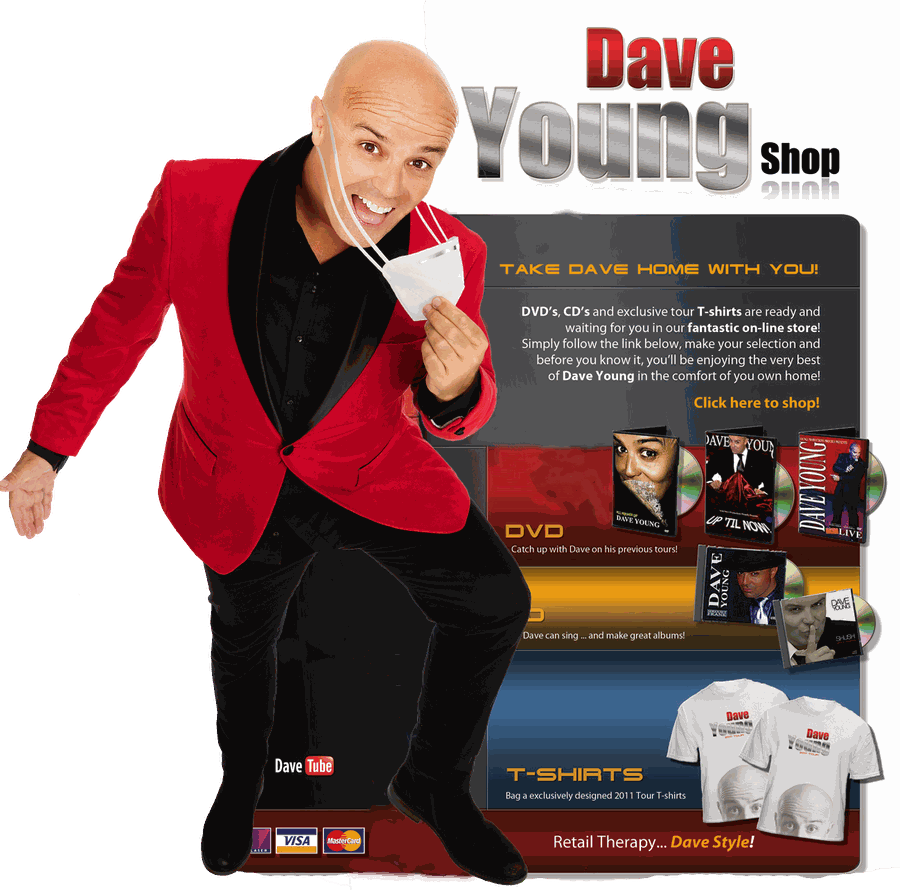
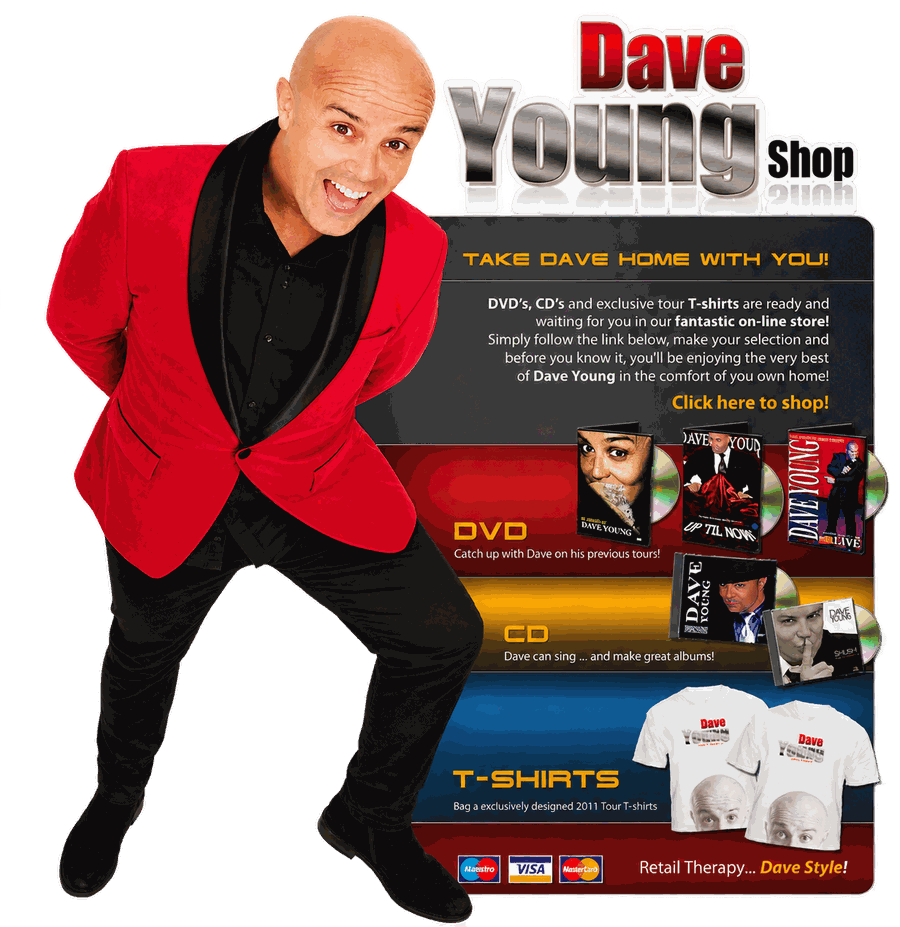
Sync with daveyounglive.com (14 Oct 2026): Unwrapped Christmas copy, new bio and booking text on home, Lucan 3 Dec confirmed, new shop promo graphic

diff --git a/index.html b/index.html
@@ -5,8 +5,8 @@
 </div><nav data-dy="e22" class="mnav" id="mnav" onclick="if(event.target.tagName=='A')this.classList.remove('open')"><a data-dy="e23 a11 t13" href="index.html">Home</a><a data-dy="e24 a12 t14" href="live.html">Live</a><a data-dy="e25 a13 t15" href="book.html">Book Dave</a><a data-dy="e26 a14 t16" href="corporate.html">Corporate</a><a data-dy="e27 a15 t17" href="clips.html">Clips</a><a data-dy="e28 a16 t18" href="about.html">About</a><a data-dy="e29 a17 t19" href="shop.html">Shop</a><a data-dy="e30 a18 t20" href="https://theweddingcomedian.ie" target="_blank" rel="noopener">Weddings</a><a data-dy="e31 a19 t21" href="contact.html">Contact</a></nav></header>
 <div data-dy="s0 e0" class="hero" id="top"><img data-dy="e1 i0" src="assets/banner_hero.jpg" alt="Dave Young Unwrapped Christmas Show poster"></div>
 <div data-dy="s1 e2" class="ctabar"><div data-dy="e3" class="wrap"><p data-dy="e4 t0">Six Unwrapped Christmas shows this December</p><div data-dy="e5" class="acts"><a data-dy="e6 a0 t1" class="btn gold" href="live.html">See dates &amp; buy tickets</a><a data-dy="e7 a1 t2" class="btn ghost" href="book.html">Book Dave for your party</a><a data-dy="e8 a2 t3" class="btn call" href="tel:+353872616317">Call 087 261 6317</a></div></div></div>
-<section data-dy="s2 e9" id="live"><div data-dy="e10" class="wrap"><h2 data-dy="e11 t4" class="sec">Unwrapped <span data-dy="e12" class="g">Christmas</span> Shows</h2><p data-dy="e13 t5" class="lead">Comedy, Christmas craic and dancing till late, as described on the ticket listings.</p><div data-dy="e14" class="shows" data-cms="shows"><div class="show"><div class="date"><span class="dow">Thu</span><div class="dm"><span class="dd">3</span><span class="mm">Dec</span></div></div>
-<div class="venue"><b>Courtney's of Lucan <span class="tag">DATE TBC</span></b><span>Lucan, Co. Dublin · 8pm</span></div>
+<section data-dy="s2 e9" id="live"><div data-dy="e10" class="wrap"><h2 data-dy="e11 t4" class="sec">Unwrapped <span data-dy="e12" class="g">Christmas</span> Shows</h2><p data-dy="e13 t5" class="lead">Laugh till your sides hurt and dance till the DJ stops! It&#8217;s outrageous, it&#8217;s festive&#8230; it&#8217;s Dave Young!</p><p data-dy="e14 t6" class="lead">Get ready for a night of outrageous comedy, big laughs and dancing till late with Dave Young! He&#8217;s naughty, he&#8217;s nice&#8230; and he&#8217;s definitely unmissable! Expect plenty of Christmas craic, hilarious stories and a few surprises along the way.</p><p data-dy="e15 t7" class="lead">🍽 Food available on request · 💃 Dancing till late · 😂 Laughs guaranteed</p><p data-dy="e16 t8" class="lead">Round up your friends, workmates or family and make it the best night out of Christmas! Because let&#8217;s face it&#8230; it&#8217;s not Christmas without Dave Young!</p><div data-dy="e17" class="shows" data-cms="shows"><div class="show"><div class="date"><span class="dow">Thu</span><div class="dm"><span class="dd">3</span><span class="mm">Dec</span></div></div>
+<div class="venue"><b>Courtney's of Lucan</b><span>Lucan, Co. Dublin · 8pm</span></div>
 <div class="act"><a class="btn red" href="https://www.universe.com/events/dave-young-live-in-lucan-dec-3-tickets-VRLH0F" target="_blank" rel="noopener">Buy tickets</a><span class="via">Universe</span></div></div><div class="show"><div class="date"><span class="dow">Thu</span><div class="dm"><span class="dd">10</span><span class="mm">Dec</span></div></div>
 <div class="venue"><b>The Ball Alley</b><span>Kildare Town · time TBC</span></div>
 <div class="act"><a class="btn gold" href="tel:045531012">Call 045 531 012</a><span class="via">Phone booking</span></div></div><div class="show"><div class="date"><span class="dow">Sat</span><div class="dm"><span class="dd">12</span><span class="mm">Dec</span></div></div>
@@ -18,30 +18,30 @@
 <div class="act"><a class="btn red" href="https://www.eventbrite.ie/e/dave-young-unwrapped-christmas-show-tickets-2001060687383" target="_blank" rel="noopener">Buy tickets</a><span class="via">Eventbrite</span></div></div><div class="show"><div class="date"><span class="dow">Sun</span><div class="dm"><span class="dd">27</span><span class="mm">Dec</span></div></div>
 <div class="venue"><b>Broadway</b><span>Clondalkin, Dublin 22 · 8pm</span></div>
 <div class="act"><a class="btn red" href="https://www.universe.com/events/dave-young-clondalkin-dec-27-tickets-FP3ZVX" target="_blank" rel="noopener">Buy tickets</a><span class="via">Universe</span></div></div></div></div></section>
-<section data-dy="s3 e15" class="party" id="book"><div data-dy="e16" class="wrap"><img data-dy="e17 i1" src="assets/christmas25.jpg" alt="The Xmas Party Comedian">
-<div data-dy="e18"><span data-dy="e19 t6" class="now">Now booking Christmas 2026 parties</span>
-<h2 data-dy="e20 t7" class="sec">Dave Young at your <span data-dy="e21" class="r">Christmas party</span></h2>
-<p data-dy="e22 t8" class="big">A show built around your team. Dave personalises it with the funny stuff about your guests, so the room is left wondering how he knew.</p>
-<ul data-dy="e23 L0" class="ticks"><li data-dy="e24 t9">Tailored to your company and your guests</li><li data-dy="e25 t10">His own sound and lighting crew <span data-dy="e26" class="tag">TBC</span></li><li data-dy="e27 t11">Covers Ireland, the UK and Spain</li><li data-dy="e28 t12">Also books corporate nights and weddings</li></ul>
-<div data-dy="e29" class="btnrow"><a data-dy="e30 a3 t13" class="btn red" href="book.html">Book Dave for your party</a><a data-dy="e31 a4 t14" class="btn call" href="tel:+353872616317">Call 087 261 6317</a></div></div></div></section>
-<div data-dy="s4 e32" class="credits"><div data-dy="e33" class="wrap">
-<div data-dy="e34 t15" class="big30">30 years<small data-dy="e35">of comedy</small></div>
-<div data-dy="e36"><h4 data-dy="e37 t16">On TV</h4><ul data-dy="e38 L1"><li data-dy="e39 t17">The Late Late Show</li><li data-dy="e40 t18">The Saturday Night Show</li><li data-dy="e41 t19">The Miriam Show</li></ul></div>
-<div data-dy="e42"><h4 data-dy="e43 t20">In the films</h4><ul data-dy="e44 L2"><li data-dy="e45 t21">The Commitments</li><li data-dy="e46 t22">The Snapper</li><li data-dy="e47 t23">Braveheart</li></ul></div>
-</div><div data-dy="e48" class="wrap q"><p data-dy="e49 t24" class="quote"><b data-dy="e50" style="font-style:normal;color:var(--gold);letter-spacing:.06em">AMAZING!</b><br data-dy="e51">&#8220;The funniest comedian I have ever seen, Dave had us laughing all night, he made our show.&#8221;<cite data-dy="e52">Miriam O&#8217;Callaghan</cite></p>
-<div data-dy="e53 L3" class="sq"><div data-dy="e54"><p data-dy="e55 t25">&#8220;He&#8217;s Hilarious&#8221;</p><cite data-dy="e56 t26">Westlife</cite></div><div data-dy="e57"><p data-dy="e58 t27">&#8220;Laugh out loud funny&#8221;</p><cite data-dy="e59 t28">Evening Herald</cite></div><div data-dy="e60"><p data-dy="e61 t29">&#8220;Never saw him&#8221;</p><cite data-dy="e62 t30">Stevie Wonder</cite></div></div></div></div>
-<section data-dy="s5 e63" class="aboutt"><div data-dy="e64 L4" class="wrap aboutg">
-<div data-dy="e65"><h2 data-dy="e66 t31" class="sec">About <span data-dy="e67" class="r">Dave</span></h2>
-<p data-dy="e68 t32" class="big">Dave Young is an Irish comedian. He gained notoriety for having one of the craziest comedy shows in the country and has been honoured with numerous industry accolades, including the Performing Arts Award for Outstanding Contribution to Comedy.</p>
-<p data-dy="e69 t33">His first big break came at Dublin&#8217;s Olympia Theatre, where he was selected from hundreds of audition hopefuls, the start of many stage and TV appearances throughout Europe.</p>
-<div data-dy="e70" class="btnrow" style="margin-top:20px"><a data-dy="e71 a5 t34" class="btn ghost" href="about.html">Read more about Dave</a></div></div>
-<div data-dy="e72"><video data-dy="e73" class="vid" controls playsinline preload="none" poster="assets/dave_intro_poster.jpg"><source data-dy="e74" src="assets/dave_intro.mp4" type="video/mp4"></video></div>
+<section data-dy="s3 e18" class="party" id="book"><div data-dy="e19" class="wrap"><img data-dy="e20 i1" src="assets/christmas25.jpg" alt="The Xmas Party Comedian">
+<div data-dy="e21"><span data-dy="e22 t9" class="now">Now booking Christmas 2026 parties</span>
+<h2 data-dy="e23 t10" class="sec">Dave Young at your <span data-dy="e24" class="r">Christmas party</span></h2>
+<p data-dy="e25 t11" class="big">Looking to make your next corporate event, awards night, gala dinner, staff party or company celebration truly memorable? Dave Young brings a refreshing mix of side-splitting comedy, great entertainment and hilarious audience participation that gets everyone laughing together.</p>
+<ul data-dy="e26 L0" class="ticks"><li data-dy="e27 t12">Tailored to your company and your guests</li><li data-dy="e28 t13">His own sound and lighting crew <span data-dy="e29" class="tag">TBC</span></li><li data-dy="e30 t14">Covers Ireland, the UK and Spain</li><li data-dy="e31 t15">Also books corporate nights and weddings</li></ul>
+<div data-dy="e32" class="btnrow"><a data-dy="e33 a3 t16" class="btn red" href="book.html">Book Dave for your party</a><a data-dy="e34 a4 t17" class="btn call" href="tel:+353872616317">Call 087 261 6317</a></div></div></div></section>
+<div data-dy="s4 e35" class="credits"><div data-dy="e36" class="wrap">
+<div data-dy="e37 t18" class="big30">30 years<small data-dy="e38">of comedy</small></div>
+<div data-dy="e39"><h4 data-dy="e40 t19">On TV</h4><ul data-dy="e41 L1"><li data-dy="e42 t20">The Late Late Show</li><li data-dy="e43 t21">The Saturday Night Show</li><li data-dy="e44 t22">The Miriam Show</li></ul></div>
+<div data-dy="e45"><h4 data-dy="e46 t23">In the films</h4><ul data-dy="e47 L2"><li data-dy="e48 t24">The Commitments</li><li data-dy="e49 t25">The Snapper</li><li data-dy="e50 t26">Braveheart</li></ul></div>
+</div><div data-dy="e51" class="wrap q"><p data-dy="e52 t27" class="quote"><b data-dy="e53" style="font-style:normal;color:var(--gold);letter-spacing:.06em">AMAZING!</b><br data-dy="e54">&#8220;The funniest comedian I have ever seen, Dave had us laughing all night, he made our show.&#8221;<cite data-dy="e55">Miriam O&#8217;Callaghan</cite></p>
+<div data-dy="e56 L3" class="sq"><div data-dy="e57"><p data-dy="e58 t28">&#8220;He&#8217;s Hilarious&#8221;</p><cite data-dy="e59 t29">Westlife</cite></div><div data-dy="e60"><p data-dy="e61 t30">&#8220;Laugh out loud funny&#8221;</p><cite data-dy="e62 t31">Evening Herald</cite></div><div data-dy="e63"><p data-dy="e64 t32">&#8220;Never saw him&#8221;</p><cite data-dy="e65 t33">Stevie Wonder</cite></div></div></div></div>
+<section data-dy="s5 e66" class="aboutt"><div data-dy="e67 L4" class="wrap aboutg">
+<div data-dy="e68"><h2 data-dy="e69 t34" class="sec">About <span data-dy="e70" class="r">Dave</span></h2>
+<p data-dy="e71 t35" class="big">Award-winning Irish comedian, singer, entertainer and all-round agent of chaos, Dave Young has built a reputation for delivering one of the wildest comedy shows in the country. With a Performing Arts Award for Outstanding Contribution to Comedy under his belt, Dave is proof that making a living out of talking nonsense can be a very serious business!</p>
+<p data-dy="e72 t36">His big break came at Dublin&#8217;s legendary Olympia Theatre, launching a career spanning live theatre, television, music and film.</p>
+<div data-dy="e73" class="btnrow" style="margin-top:20px"><a data-dy="e74 a5 t37" class="btn ghost" href="about.html">Read more about Dave</a></div></div>
+<div data-dy="e75"><video data-dy="e76" class="vid" controls playsinline preload="none" poster="assets/dave_intro_poster.jpg"><source data-dy="e77" src="assets/dave_intro.mp4" type="video/mp4"></video></div>
 </div></section>
-<section data-dy="s6 e75" class="clients"><div data-dy="e76" class="wrap"><div data-dy="e77" class="secHead"><div data-dy="e78"><h2 data-dy="e79 t35" class="sec">Corporate <span data-dy="e80" class="g">clients</span></h2><p data-dy="e81 t36" class="lead">Some of the companies and brands Dave Young has entertained.</p></div><a data-dy="e82 a6 t37" class="btn ghost sm" href="corporate.html">Corporate events</a></div><div data-dy="e83 L5" class="logos"><div data-dy="e84" class="lg"><img data-dy="e85 i2" src="assets/logo_eir.png" alt="eir" title="eir" loading="lazy"></div><div data-dy="e86" class="lg"><img data-dy="e87 i3" src="assets/logo_facebook.png" alt="Facebook" title="Facebook" loading="lazy"></div><div data-dy="e88" class="lg"><img data-dy="e89 i4" src="assets/logo_citibank.png" alt="Citibank" title="Citibank" loading="lazy"></div><div data-dy="e90" class="lg"><img data-dy="e91 i5" src="assets/logo_ulsterbank.png" alt="Ulster Bank" title="Ulster Bank" loading="lazy"></div><div data-dy="e92" class="lg"><img data-dy="e93 i6" src="assets/logo_samsung.png" alt="Samsung" title="Samsung" loading="lazy"></div><div data-dy="e94" class="lg"><img data-dy="e95 i7" src="assets/logo_rte.png" alt="RTÉ" title="RTÉ" loading="lazy"></div><div data-dy="e96" class="lg"><img data-dy="e97 i8" src="assets/logo_dell.png" alt="Dell" title="Dell" loading="lazy"></div><div data-dy="e98" class="lg"><img data-dy="e99 i9" src="assets/logo_ibm.png" alt="IBM" title="IBM" loading="lazy"></div><div data-dy="e100" class="lg"><img data-dy="e101 i10" src="assets/logo_o2.png" alt="O2" title="O2" loading="lazy"></div><div data-dy="e102" class="lg"><img data-dy="e103 i11" src="assets/logo_vhi.png" alt="VHI" title="VHI" loading="lazy"></div><div data-dy="e104" class="lg"><img data-dy="e105 i12" src="assets/logo_electricireland.png" alt="Electric Ireland" title="Electric Ireland" loading="lazy"></div><div data-dy="e106" class="lg"><img data-dy="e107 i13" src="assets/logo_aib.png" alt="AIB" title="AIB" loading="lazy"></div></div></div></section>
-<section data-dy="s7 e108" class="clips" id="clips"><div data-dy="e109" class="wrap"><div data-dy="e110" class="secHead"><div data-dy="e111"><h2 data-dy="e112 t38" class="sec">Watch <span data-dy="e113" class="r">Dave</span></h2><p data-dy="e114 t39" class="lead">TV spots, sketches and live clips from his YouTube channel.</p></div><a data-dy="e115 a7 t40" class="btn ghost sm" href="clips.html">All clips</a></div><div data-dy="e116 L6" class="grid"><a data-dy="e117 a8" class="clip" href="https://www.youtube.com/watch?v=1ouOVgKL3hA" target="_blank" rel="noopener"><div data-dy="e118" class="th"><img data-dy="e119 i14" src="assets/yt_1ouOVgKL3hA.jpg" alt="" loading="lazy"><span data-dy="e120" class="play"></span></div><p data-dy="e121 t41">The Saturday Night Show</p></a><a data-dy="e122 a9" class="clip" href="https://www.youtube.com/watch?v=PFz5GcQkKrA" target="_blank" rel="noopener"><div data-dy="e123" class="th"><img data-dy="e124 i15" src="assets/yt_PFz5GcQkKrA.jpg" alt="" loading="lazy"><span data-dy="e125" class="play"></span></div><p data-dy="e126 t42">&#8220;Springroll&#8221;</p></a><a data-dy="e127 a10" class="clip" href="https://www.youtube.com/watch?v=AM0VQBR10wU" target="_blank" rel="noopener"><div data-dy="e128" class="th"><img data-dy="e129 i16" src="assets/yt_AM0VQBR10wU.jpg" alt="" loading="lazy"><span data-dy="e130" class="play"></span></div><p data-dy="e131 t43">Dave Young: Laugh Harder</p></a><a data-dy="e132 a11" class="clip" href="https://www.youtube.com/watch?v=_IsjacLppAg" target="_blank" rel="noopener"><div data-dy="e133" class="th"><img data-dy="e134 i17" src="assets/yt__IsjacLppAg.jpg" alt="" loading="lazy"><span data-dy="e135" class="play"></span></div><p data-dy="e136 t44">Brides of Franc</p></a></div></div></section>
-<section data-dy="s8 e137" class="shopt"><div data-dy="e138" class="wrap shopg"><img data-dy="e139 i18" src="assets/shop_promo.png" alt="Dave Young Shop" loading="lazy">
-<div data-dy="e140"><h2 data-dy="e141 t45" class="sec">Dave Young <span data-dy="e142" class="r">Shop</span></h2><p data-dy="e143 t46" class="big">DVDs and CDs: &#8220;Live&#8221;, &#8220;All Hushed Up&#8221;, &#8220;Up Till Now&#8221;, &#8220;No Cutbacks on Laughter&#8221;, &#8220;Shush While I Swing&#8221;, &#8220;Wired For Fun&#8221; and more.</p><p data-dy="e144 t47" class="warn">Warning: you may die laughing!</p>
-<div data-dy="e145" class="btnrow" style="margin-top:18px"><a data-dy="e146 a12 t48" class="btn red" href="shop.html">Visit the shop</a></div></div></div></section>
+<section data-dy="s6 e78" class="clients"><div data-dy="e79" class="wrap"><div data-dy="e80" class="secHead"><div data-dy="e81"><h2 data-dy="e82 t38" class="sec">Corporate <span data-dy="e83" class="g">clients</span></h2><p data-dy="e84 t39" class="lead">Some of the companies and brands Dave Young has entertained.</p></div><a data-dy="e85 a6 t40" class="btn ghost sm" href="corporate.html">Corporate events</a></div><div data-dy="e86 L5" class="logos"><div data-dy="e87" class="lg"><img data-dy="e88 i2" src="assets/logo_eir.png" alt="eir" title="eir" loading="lazy"></div><div data-dy="e89" class="lg"><img data-dy="e90 i3" src="assets/logo_facebook.png" alt="Facebook" title="Facebook" loading="lazy"></div><div data-dy="e91" class="lg"><img data-dy="e92 i4" src="assets/logo_citibank.png" alt="Citibank" title="Citibank" loading="lazy"></div><div data-dy="e93" class="lg"><img data-dy="e94 i5" src="assets/logo_ulsterbank.png" alt="Ulster Bank" title="Ulster Bank" loading="lazy"></div><div data-dy="e95" class="lg"><img data-dy="e96 i6" src="assets/logo_samsung.png" alt="Samsung" title="Samsung" loading="lazy"></div><div data-dy="e97" class="lg"><img data-dy="e98 i7" src="assets/logo_rte.png" alt="RTÉ" title="RTÉ" loading="lazy"></div><div data-dy="e99" class="lg"><img data-dy="e100 i8" src="assets/logo_dell.png" alt="Dell" title="Dell" loading="lazy"></div><div data-dy="e101" class="lg"><img data-dy="e102 i9" src="assets/logo_ibm.png" alt="IBM" title="IBM" loading="lazy"></div><div data-dy="e103" class="lg"><img data-dy="e104 i10" src="assets/logo_o2.png" alt="O2" title="O2" loading="lazy"></div><div data-dy="e105" class="lg"><img data-dy="e106 i11" src="assets/logo_vhi.png" alt="VHI" title="VHI" loading="lazy"></div><div data-dy="e107" class="lg"><img data-dy="e108 i12" src="assets/logo_electricireland.png" alt="Electric Ireland" title="Electric Ireland" loading="lazy"></div><div data-dy="e109" class="lg"><img data-dy="e110 i13" src="assets/logo_aib.png" alt="AIB" title="AIB" loading="lazy"></div></div></div></section>
+<section data-dy="s7 e111" class="clips" id="clips"><div data-dy="e112" class="wrap"><div data-dy="e113" class="secHead"><div data-dy="e114"><h2 data-dy="e115 t41" class="sec">Watch <span data-dy="e116" class="r">Dave</span></h2><p data-dy="e117 t42" class="lead">TV spots, sketches and live clips from his YouTube channel.</p></div><a data-dy="e118 a7 t43" class="btn ghost sm" href="clips.html">All clips</a></div><div data-dy="e119 L6" class="grid"><a data-dy="e120 a8" class="clip" href="https://www.youtube.com/watch?v=1ouOVgKL3hA" target="_blank" rel="noopener"><div data-dy="e121" class="th"><img data-dy="e122 i14" src="assets/yt_1ouOVgKL3hA.jpg" alt="" loading="lazy"><span data-dy="e123" class="play"></span></div><p data-dy="e124 t44">The Saturday Night Show</p></a><a data-dy="e125 a9" class="clip" href="https://www.youtube.com/watch?v=PFz5GcQkKrA" target="_blank" rel="noopener"><div data-dy="e126" class="th"><img data-dy="e127 i15" src="assets/yt_PFz5GcQkKrA.jpg" alt="" loading="lazy"><span data-dy="e128" class="play"></span></div><p data-dy="e129 t45">&#8220;Springroll&#8221;</p></a><a data-dy="e130 a10" class="clip" href="https://www.youtube.com/watch?v=AM0VQBR10wU" target="_blank" rel="noopener"><div data-dy="e131" class="th"><img data-dy="e132 i16" src="assets/yt_AM0VQBR10wU.jpg" alt="" loading="lazy"><span data-dy="e133" class="play"></span></div><p data-dy="e134 t46">Dave Young: Laugh Harder</p></a><a data-dy="e135 a11" class="clip" href="https://www.youtube.com/watch?v=_IsjacLppAg" target="_blank" rel="noopener"><div data-dy="e136" class="th"><img data-dy="e137 i17" src="assets/yt__IsjacLppAg.jpg" alt="" loading="lazy"><span data-dy="e138" class="play"></span></div><p data-dy="e139 t47">Brides of Franc</p></a></div></div></section>
+<section data-dy="s8 e140" class="shopt"><div data-dy="e141" class="wrap shopg"><img data-dy="e142 i18" src="assets/shop_promo.png" alt="Dave Young Shop" loading="lazy">
+<div data-dy="e143"><h2 data-dy="e144 t48" class="sec">Dave Young <span data-dy="e145" class="r">Shop</span></h2><p data-dy="e146 t49" class="big">DVDs and CDs: &#8220;Live&#8221;, &#8220;All Hushed Up&#8221;, &#8220;Up Till Now&#8221;, &#8220;No Cutbacks on Laughter&#8221;, &#8220;Shush While I Swing&#8221;, &#8220;Wired For Fun&#8221; and more.</p><p data-dy="e147 t50" class="warn">Warning: you may die laughing!</p>
+<div data-dy="e148" class="btnrow" style="margin-top:18px"><a data-dy="e149 a12 t51" class="btn red" href="shop.html">Visit the shop</a></div></div></div></section>
 <footer data-dy="e32" id="contact"><div data-dy="e33" class="wrap">
 <div data-dy="e34"><div data-dy="e35" class="brand"><span data-dy="e36 t22" class="d">Dave</span> <span data-dy="e37 t23" class="y">Young</span><small data-dy="e38 t24">Young1 Productions</small></div></div>
 <div data-dy="e39" class="mail"><span data-dy="e40 t25">Bookings &amp; enquiries</span><a data-dy="e41 a20 t26" href="tel:+353872616317">087 261 6317</a><em data-dy="e42 t27" class="em">young1productions@gmail.com · info@daveyounglive.com <span data-dy="e43" class="tag">EMAIL TBC</span></em></div>

diff --git a/live.html b/live.html
@@ -4,7 +4,7 @@
 <div data-dy="e16" class="burger"><a data-dy="e17 a10 t12" class="btn red sm" href="live.html">Tickets</a><button data-dy="e18" class="ham" aria-label="Menu" aria-expanded="false" onclick="var m=document.getElementById('mnav');var o=m.classList.toggle('open');this.setAttribute('aria-expanded',o)"><i data-dy="e19"></i><i data-dy="e20"></i><i data-dy="e21"></i></button></div>
 </div><nav data-dy="e22" class="mnav" id="mnav" onclick="if(event.target.tagName=='A')this.classList.remove('open')"><a data-dy="e23 a11 t13" href="index.html">Home</a><a data-dy="e24 a12 t14" href="live.html" class="cur">Live</a><a data-dy="e25 a13 t15" href="book.html">Book Dave</a><a data-dy="e26 a14 t16" href="corporate.html">Corporate</a><a data-dy="e27 a15 t17" href="clips.html">Clips</a><a data-dy="e28 a16 t18" href="about.html">About</a><a data-dy="e29 a17 t19" href="shop.html">Shop</a><a data-dy="e30 a18 t20" href="https://theweddingcomedian.ie" target="_blank" rel="noopener">Weddings</a><a data-dy="e31 a19 t21" href="contact.html">Contact</a></nav></header><div data-dy="s0 e0" class="bhero photo tall"><img data-dy="e1 i0" src="assets/portrait.jpg" alt=""><div data-dy="e2" class="txt"><div data-dy="e3" class="wrap"><h1 data-dy="e4 t0">Dave Young <span data-dy="e5" class="r">Live</span></h1><p data-dy="e6 t1">&#8216;Unwrapped&#8217; Christmas Show, December 2026. He&#8217;s naughty, he&#8217;s nice&#8230; he&#8217;s unmissable.</p></div></div></div>
 <section data-dy="s1 e7" id="dates"><div data-dy="e8" class="wrap"><p data-dy="e9 t2" class="kicker">The most outrageous comedian on earth is coming to a venue near you</p><h2 data-dy="e10 t3" class="sec">Unwrapped <span data-dy="e11" class="g">Christmas</span> Shows</h2><p data-dy="e12 t4" class="lead">Shows start at 8pm per the ticket listings (Ball Alley time TBC). Courtney&#8217;s and Broadway listings say 18+ with first-come seating; other venues TBC.</p><div data-dy="e13" class="shows" data-cms="shows"><div class="show"><div class="date"><span class="dow">Thu</span><div class="dm"><span class="dd">3</span><span class="mm">Dec</span></div></div>
-<div class="venue"><b>Courtney's of Lucan <span class="tag">DATE TBC</span></b><span>Lucan, Co. Dublin · 8pm</span></div>
+<div class="venue"><b>Courtney's of Lucan</b><span>Lucan, Co. Dublin · 8pm</span></div>
 <div class="act"><a class="btn red" href="https://www.universe.com/events/dave-young-live-in-lucan-dec-3-tickets-VRLH0F" target="_blank" rel="noopener">Buy tickets</a><span class="via">Universe</span></div></div><div class="show"><div class="date"><span class="dow">Thu</span><div class="dm"><span class="dd">10</span><span class="mm">Dec</span></div></div>
 <div class="venue"><b>The Ball Alley</b><span>Kildare Town · time TBC</span></div>
 <div class="act"><a class="btn gold" href="tel:045531012">Call 045 531 012</a><span class="via">Phone booking</span></div></div><div class="show"><div class="date"><span class="dow">Sat</span><div class="dm"><span class="dd">12</span><span class="mm">Dec</span></div></div>
